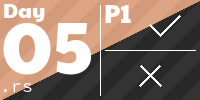
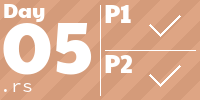
feat: finish day 5 part 2

diff --git a/src/solutions/day_5.rs b/src/solutions/day_5.rs
@@ -1,19 +1,17 @@
-use std::{
-    cmp::{max, min},
-    collections::HashSet,
-    ops::RangeInclusive,
-};
+use std::{cmp::max, collections::HashSet, ops::RangeInclusive};
 
 use crate::utils::{
     get_input::get_aoc_input, parsing::split_lines, parsing::split_string_by_specified_char,
 };
 
 /// Runs the solution for Advent of Code Day 5.
-pub fn day_5() -> usize {
+pub fn day_5() {
     let part_1 = num_valid_ingredients();
-    println!("Day 5! Part 1: {:?}", part_1);
-
-    part_1
+    let part_2 = parse_input();
+    println!(
+        "Day 5! Part 1: {:?}, Part 2: {:?}",
+        part_1, part_2.current_num_valid_ids
+    );
 }
 
 struct KitchenInventory {
@@ -34,36 +32,55 @@ impl KitchenInventory {
         }
     }
 
-    fn add_range(&mut self, mut new_range: RangeInclusive<u64>) {
-        let mut new_ranges: Vec<RangeInclusive<u64>> = Vec::new();
-        let mut no_overlap: bool = true;
-        while let Some(range) = self.valid_ranges.pop() {
-            if range.contains(&new_range.start()) || range.contains(&new_range.end()) {
-                let new_start = min(*range.start(), *new_range.start());
-                let new_end = max(*range.end(), *new_range.end());
-                new_range = new_start..=new_end;
-                new_ranges.push(new_range.clone()); // extend range
-                self.current_num_valid_ids += new_range.end().abs_diff(*new_range.start());
-                self.current_num_valid_ids -= range.end().abs_diff(*range.start()); // remove old range sum
-                no_overlap = false;
-                break;
-            } else {
-                new_ranges.push(range); // keep old range
-            }
-        }
-        if no_overlap {
-            new_ranges.push(new_range.clone()); // add new range and new range sum
-            self.current_num_valid_ids += new_range.end().abs_diff(*new_range.start());
-        } else {
-            new_ranges.extend(self.valid_ranges.clone()) //add old ranges back in
-        }
-        self.valid_ranges = new_ranges;
+    fn add_range(&mut self, new_range: RangeInclusive<u64>) {
+        self.current_num_valid_ids += new_range.end().abs_diff(*new_range.start());
+        self.valid_ranges.push(new_range);
     }
 
-    fn add_ranges(&mut self, new_ranges: Vec<RangeInclusive<u64>>) {
-        for range in new_ranges {
-            self.add_range(range);
+    fn aggregate_ranges(&mut self) {
+        self.valid_ranges.sort_by(|x, y| x.start().cmp(y.start()));
+        let mut idx_a = 0;
+        let mut idx_b = 1;
+
+        while idx_a < self.valid_ranges.len() - 1 {
+            // let's go through every single range and aggregate them!
+
+            let range_a = &self.valid_ranges[idx_a];
+            let range_b = &self.valid_ranges[idx_b];
+            if range_a.contains(range_b.start()) {
+                // if start of range B is within range A
+                if range_a.contains(range_b.end()) {
+                    // if range b is totally within range a
+                    self.current_num_valid_ids -= range_b.end().abs_diff(*range_b.start()); // remove old range_b sum
+                    self.valid_ranges.remove(idx_b); // range b is totally within range a, just remove
+                                                     // idx_b stays the same
+                    continue;
+                } else {
+                    let new_end = max(*range_a.end(), *range_b.end());
+                    let new_range = *range_a.start()..=new_end;
+
+                    self.valid_ranges.remove(idx_b); // remove 2nd range, which is now part of new
+                    self.valid_ranges.remove(idx_a); // remove 1st range, which is now part of new
+                    self.valid_ranges.insert(idx_a, new_range);
+                }
+                if idx_b == self.valid_ranges.len() {
+                    idx_a += 1;
+                    idx_b = idx_a + 1; // if we've checked through all later ranges, then time to increment idx_a
+                } else {
+                    // we deleted item at idx_b so no need to change idx_b
+                }
+            } else {
+                idx_a += 1;
+                idx_b = idx_a + 1;
+            }
         }
+
+        let new_valid_ids: u64 = self
+            .valid_ranges
+            .iter()
+            .map(|x| x.end().abs_diff(*x.start()) + 1) // +1 so we take into account upper bound!
+            .sum();
+        self.current_num_valid_ids = new_valid_ids;
     }
 }
 
@@ -84,8 +101,10 @@ fn parse_input() -> KitchenInventory {
             })
             .collect();
         ingredients_parsed.add_range(RangeInclusive::new(nums[0], nums[1]));
-        println!("{:?}", ingredients_parsed.valid_ranges)
     }
+
+    ingredients_parsed.aggregate_ranges(); // this is key for part 2!
+
     let ingredient_ids: Vec<u64> = split_lines(input[1].clone())
         .into_iter()
         .map(|num| {
@@ -113,6 +132,17 @@ mod tests {
     #[test]
     fn test_day_5() {
         assert_eq!(num_valid_ingredients(), 3);
+    }
+
+    #[test]
+    fn test_day_5_part_2() {
         assert_eq!(parse_input().current_num_valid_ids, 14);
+    }
+    #[test]
+    fn test_day_5_part_2_extra_test() {
+        let mut test = parse_input();
+        test.add_range(RangeInclusive::new(20, 30));
+        test.aggregate_ranges();
+        assert_eq!(test.current_num_valid_ids, 24);
     }
 }

diff --git a/README.md b/README.md
@@ -44,7 +44,7 @@ cargo doc && cargo doc --open
 
 <!-- AOC TILES BEGIN -->
 <h1 align="center">
-  2025 - 14 ⭐ - Rust
+  2025 - 15 ⭐ - Rust
 </h1>
 <a href="src/solutions/day_1.rs">
   <img src=".aoc_tiles/tiles/2025/01.png" width="203px">
